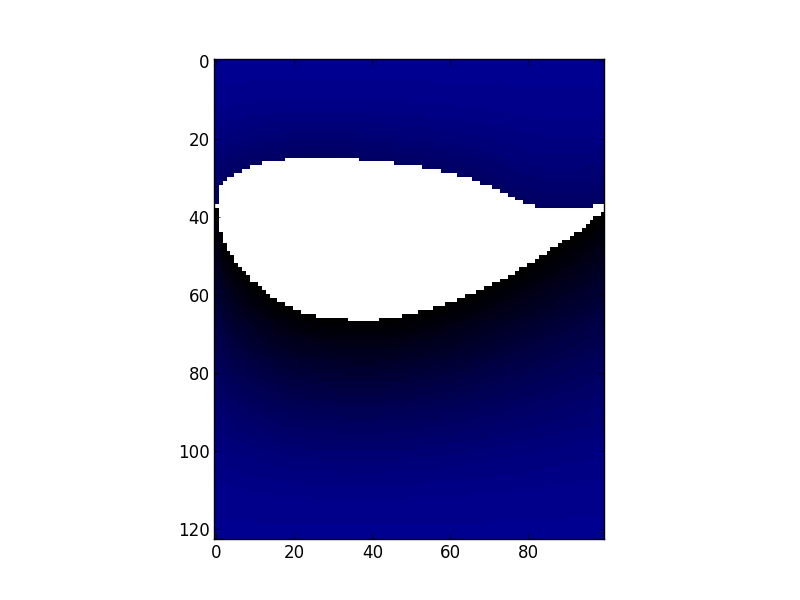
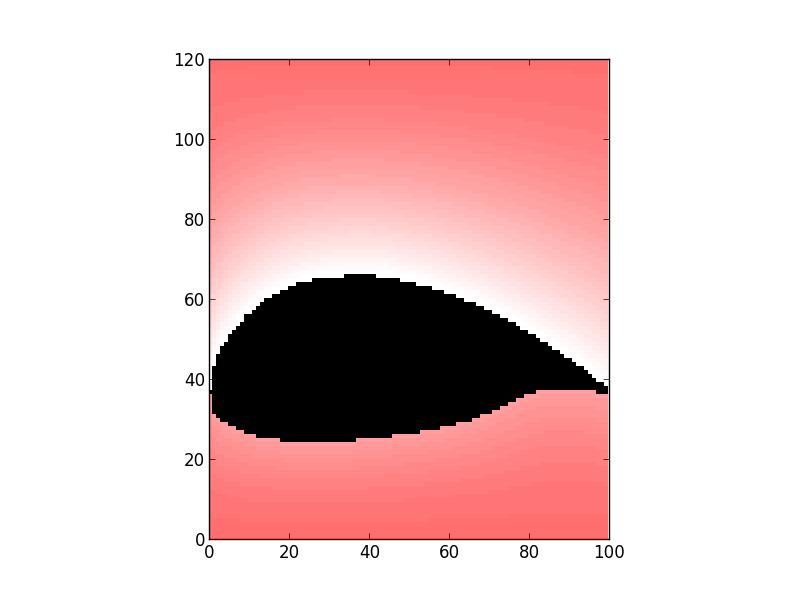
"better pressure map"

diff --git a/pressure_map.py b/pressure_map.py
@@ -117,20 +117,21 @@ def mat_pressure(curves,eps,hmax,hmin):
             mat[i][j]=(mat[i][j]-mini)*(256/(maxi-mini))
 
     c_dict_thermal = [
-                '#000000', # noir
-                '#0000ff', # bleu
+                '#ffffff', # noir
+                '#ff0000', # bleu
                 '#00ffff', # cyan
                 '#00ff00', # vert
                 '#ffff00', # jaune
-                '#ff0000', # rouge
-                '#ffffff'  # blanc
+                '#0000ff', # rouge
+                '#000000'  # blanc
         ]
 
     c_map_thermal = col.LinearSegmentedColormap.from_list('thermal', c_dict_thermal,  N=256, gamma=1.0)
     cm.register_cmap(cmap=c_map_thermal)
 
    
-
+    plt.ylim(0,120)
+    plt.xlim(0,100,0.1)
     plt.imshow(mat, interpolation='none', cmap='thermal')
     plt.show
     plt.savefig("mat.png")                   
@@ -145,8 +146,8 @@ def main():
     curves+=compute_curves(yUpper,lambdaEpsUpper,hMax)
     curves+=compute_curves(yLower,lambdaEpsLower,hMin)
     mat_pressure(curves, xEps, 3*hMax,3*hMin)
-#    display_curves(yUpper,yLower,curves,xEps)
-#    matrice_pressure(curves, xEps, hMax,hMin)
+ #   display_curves(yUpper,yLower,curves,xEps)
+
 
 
 if __name__ ==  '__main__':
